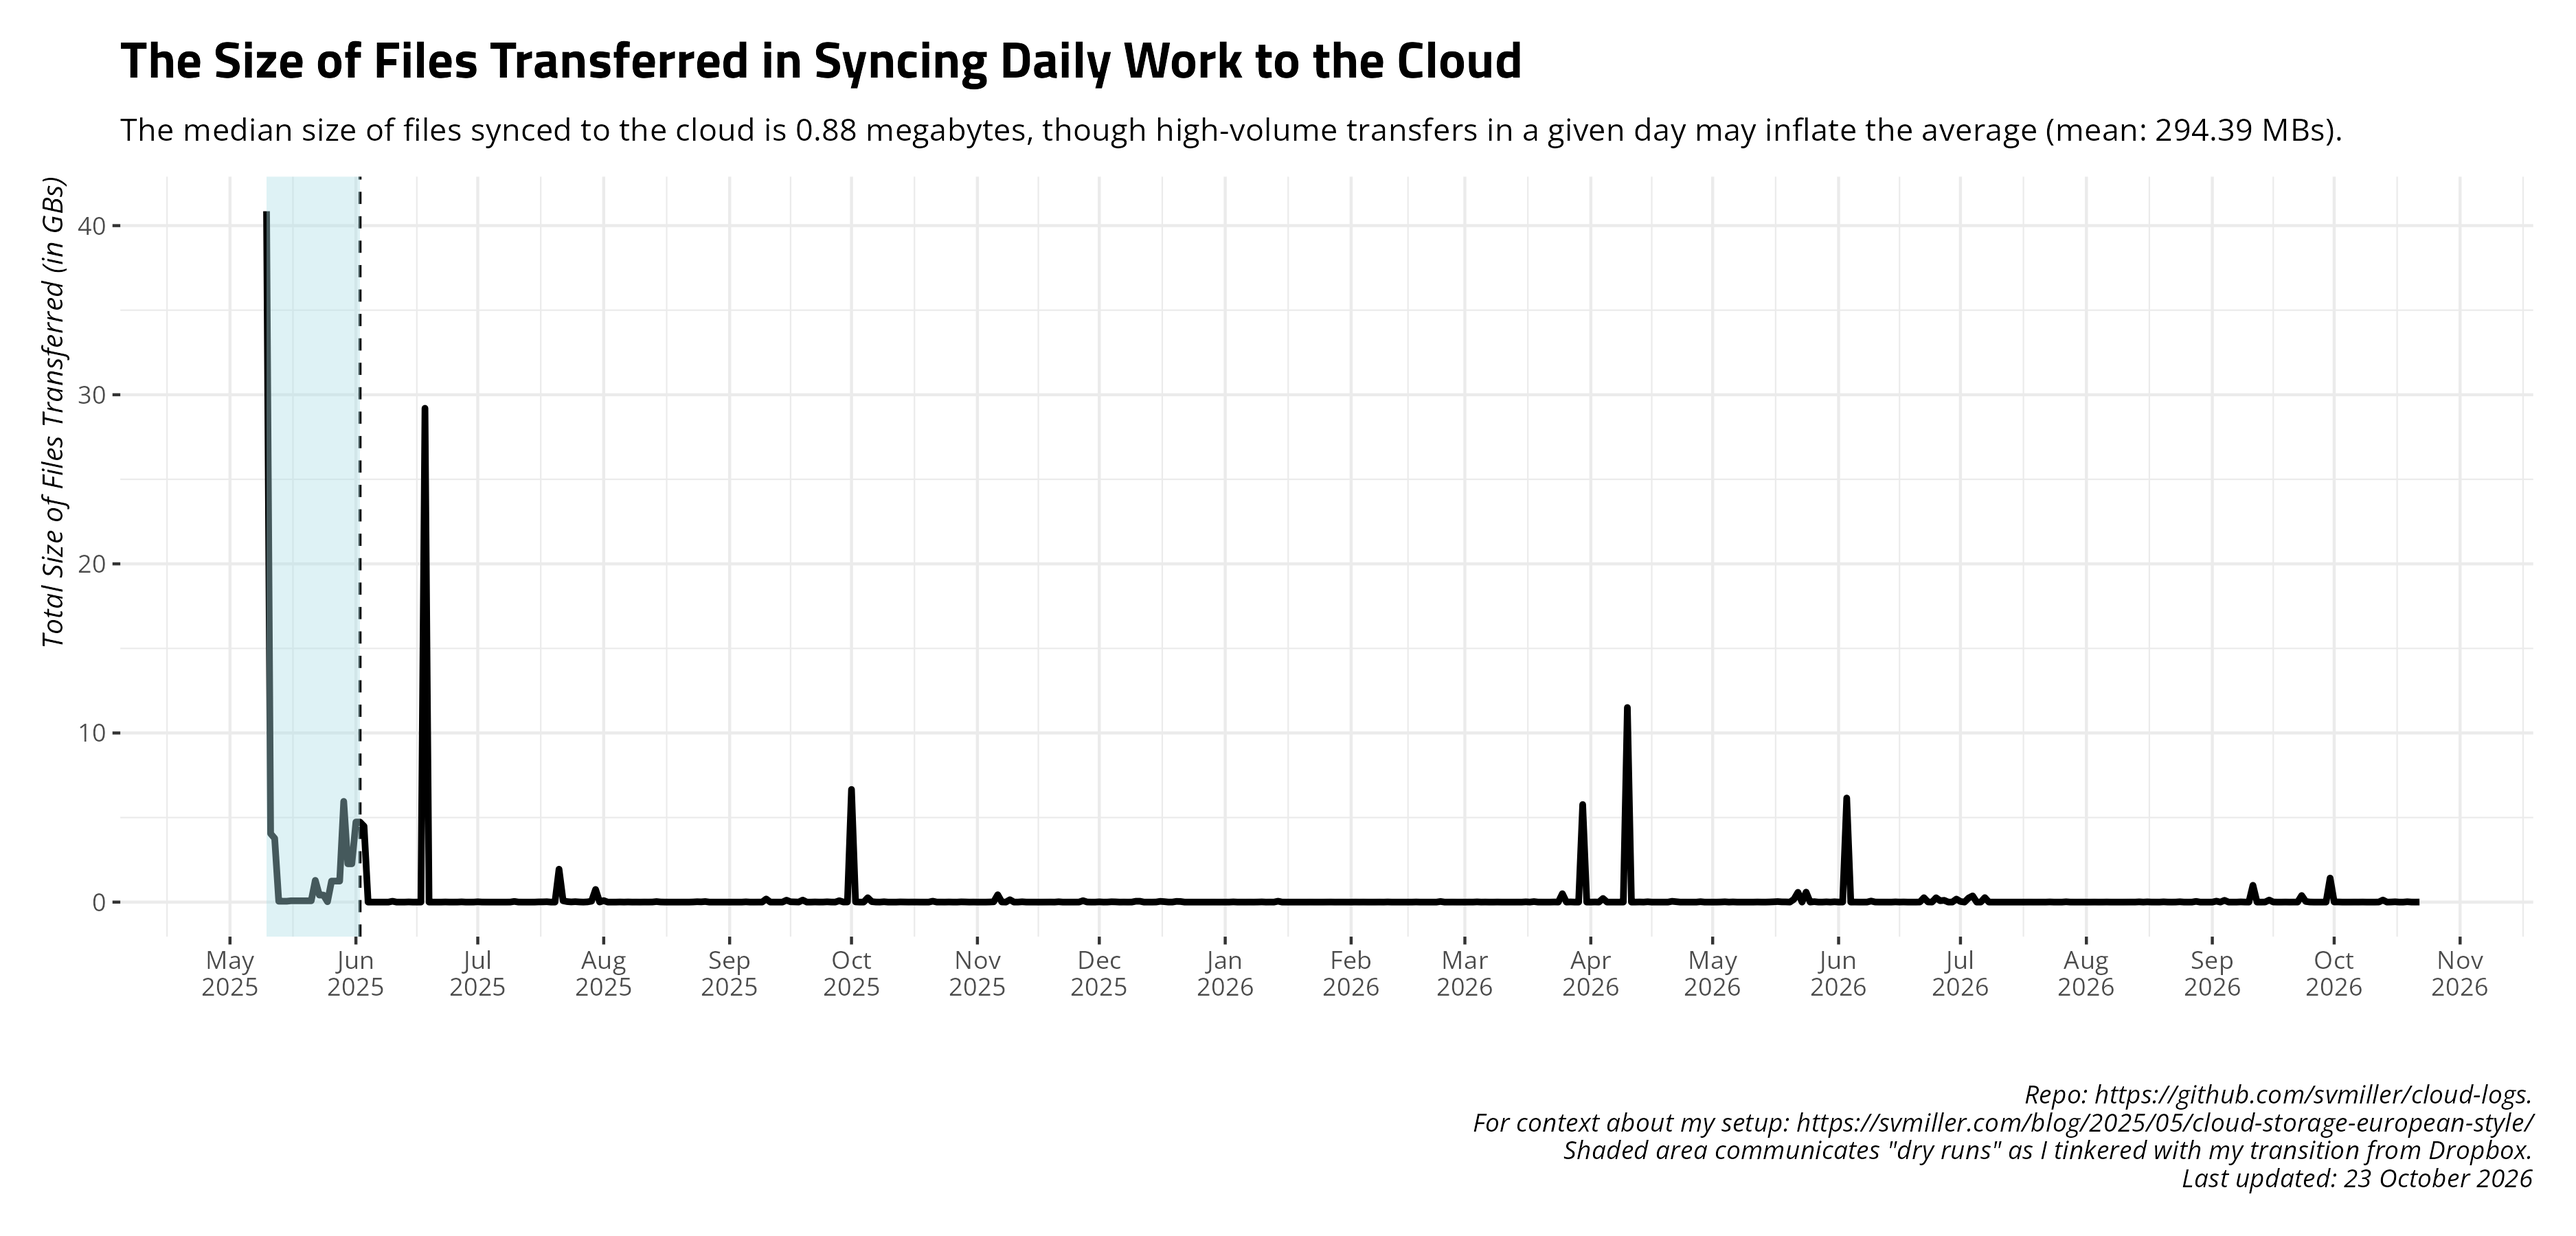
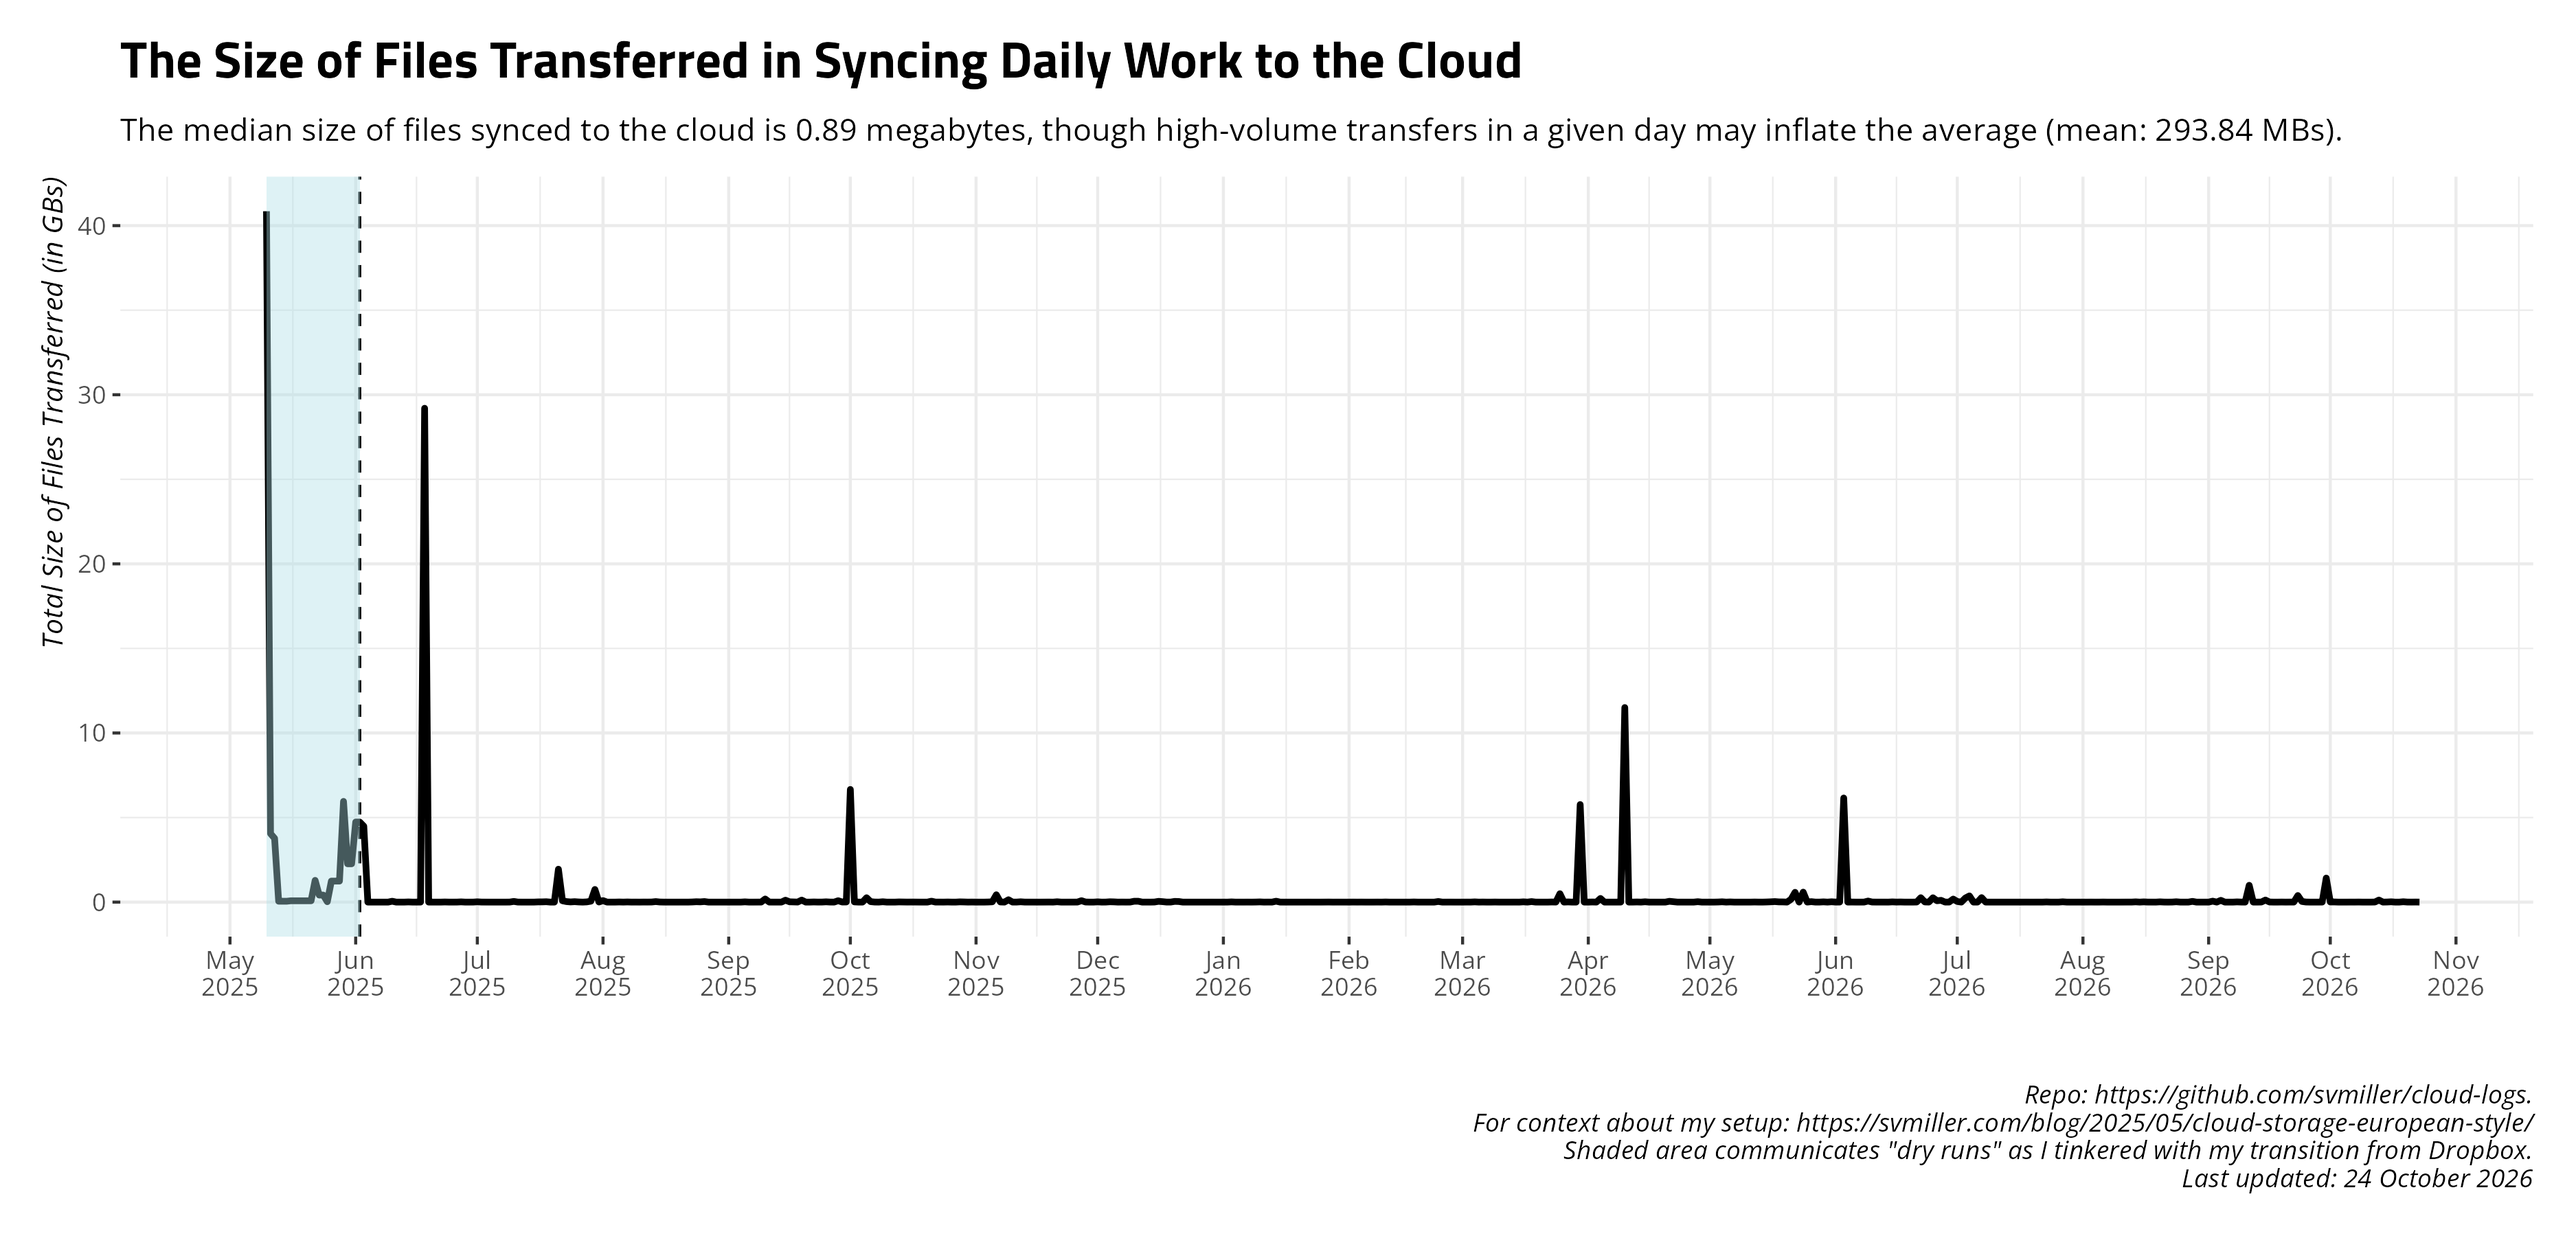
Date: 2026-10-24 09:00:37. Hi mom!

diff --git a/README.md b/README.md
@@ -27,17 +27,17 @@ and uploads to Github.
     #> # A tibble: 14 × 4
     #>    date       ftransfer stransfer   elapsed 
     #>    <date>         <dbl> <chr>       <chr>   
-    #>  1 2026-10-09         1 4.059 KiB   4m49.4s 
-    #>  2 2026-10-10         0 <NA>        4m23.0s 
-    #>  3 2026-10-11         0 <NA>        4m47.3s 
-    #>  4 2026-10-12       112 4.979 MiB   10m31.4s
-    #>  5 2026-10-13         8 124.477 MiB 47m23.4s
-    #>  6 2026-10-14         0 <NA>        27m16.0s
-    #>  7 2026-10-15         9 5.339 MiB   26m53.8s
-    #>  8 2026-10-16       147 17.869 MiB  25m51.8s
-    #>  9 2026-10-17         0 <NA>        12m54.4s
-    #> 10 2026-10-18         0 <NA>        20m6.6s 
-    #> 11 2026-10-19       108 20.905 MiB  17m36.0s
-    #> 12 2026-10-20       396 2.903 MiB   4m32.2s 
-    #> 13 2026-10-21        32 1.412 MiB   4m38.6s 
-    #> 14 2026-10-22        78 3.980 MiB   6m15.1s
+    #>  1 2026-10-10         0 <NA>        4m23.0s 
+    #>  2 2026-10-11         0 <NA>        4m47.3s 
+    #>  3 2026-10-12       112 4.979 MiB   10m31.4s
+    #>  4 2026-10-13         8 124.477 MiB 47m23.4s
+    #>  5 2026-10-14         0 <NA>        27m16.0s
+    #>  6 2026-10-15         9 5.339 MiB   26m53.8s
+    #>  7 2026-10-16       147 17.869 MiB  25m51.8s
+    #>  8 2026-10-17         0 <NA>        12m54.4s
+    #>  9 2026-10-18         0 <NA>        20m6.6s 
+    #> 10 2026-10-19       108 20.905 MiB  17m36.0s
+    #> 11 2026-10-20       396 2.903 MiB   4m32.2s 
+    #> 12 2026-10-21        32 1.412 MiB   4m38.6s 
+    #> 13 2026-10-22        78 3.980 MiB   6m15.1s 
+    #> 14 2026-10-23       149 1.495 MiB   4m25.2s
